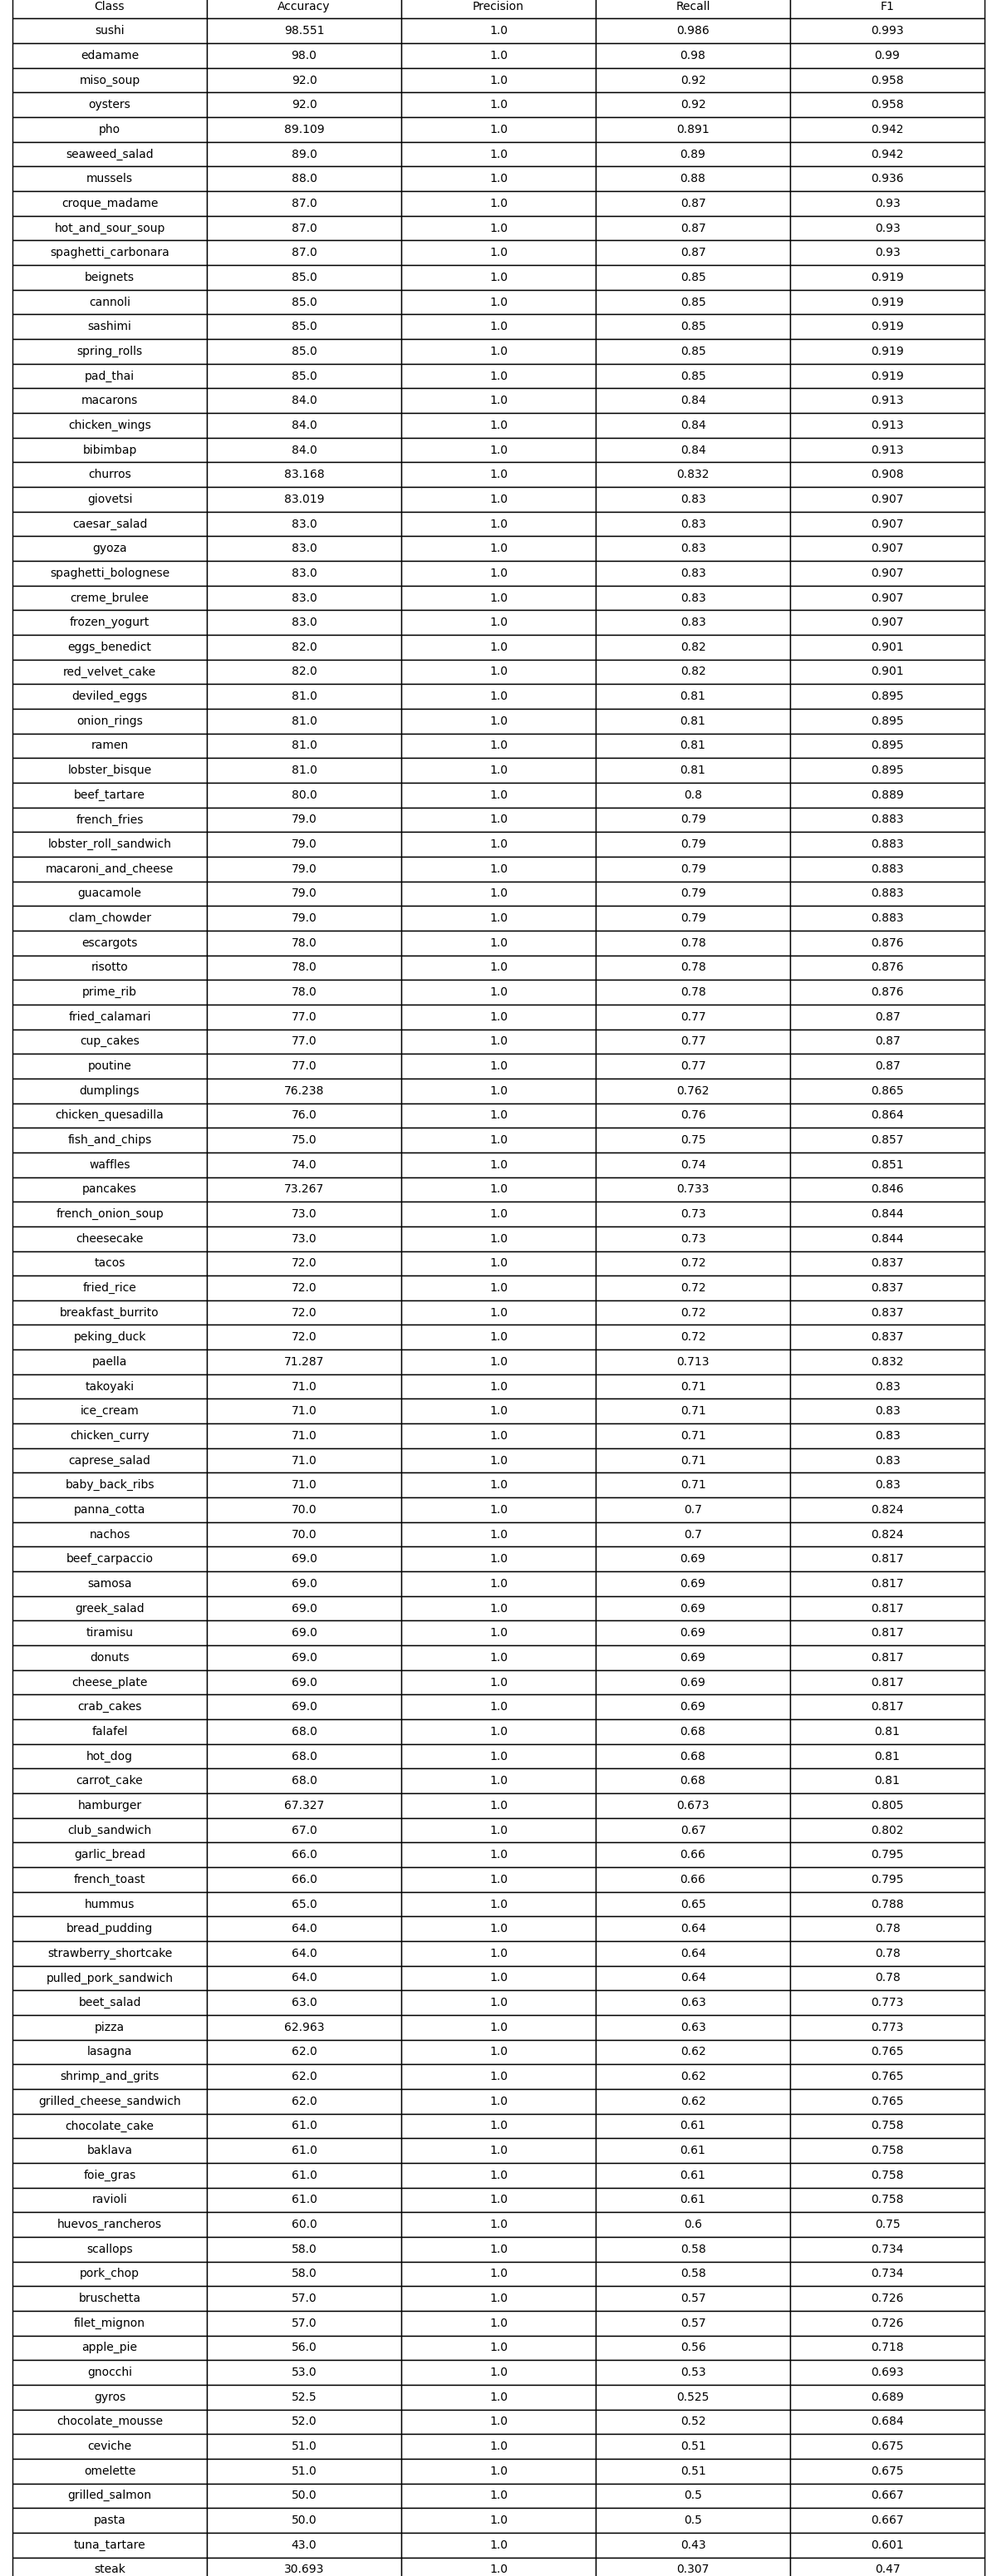
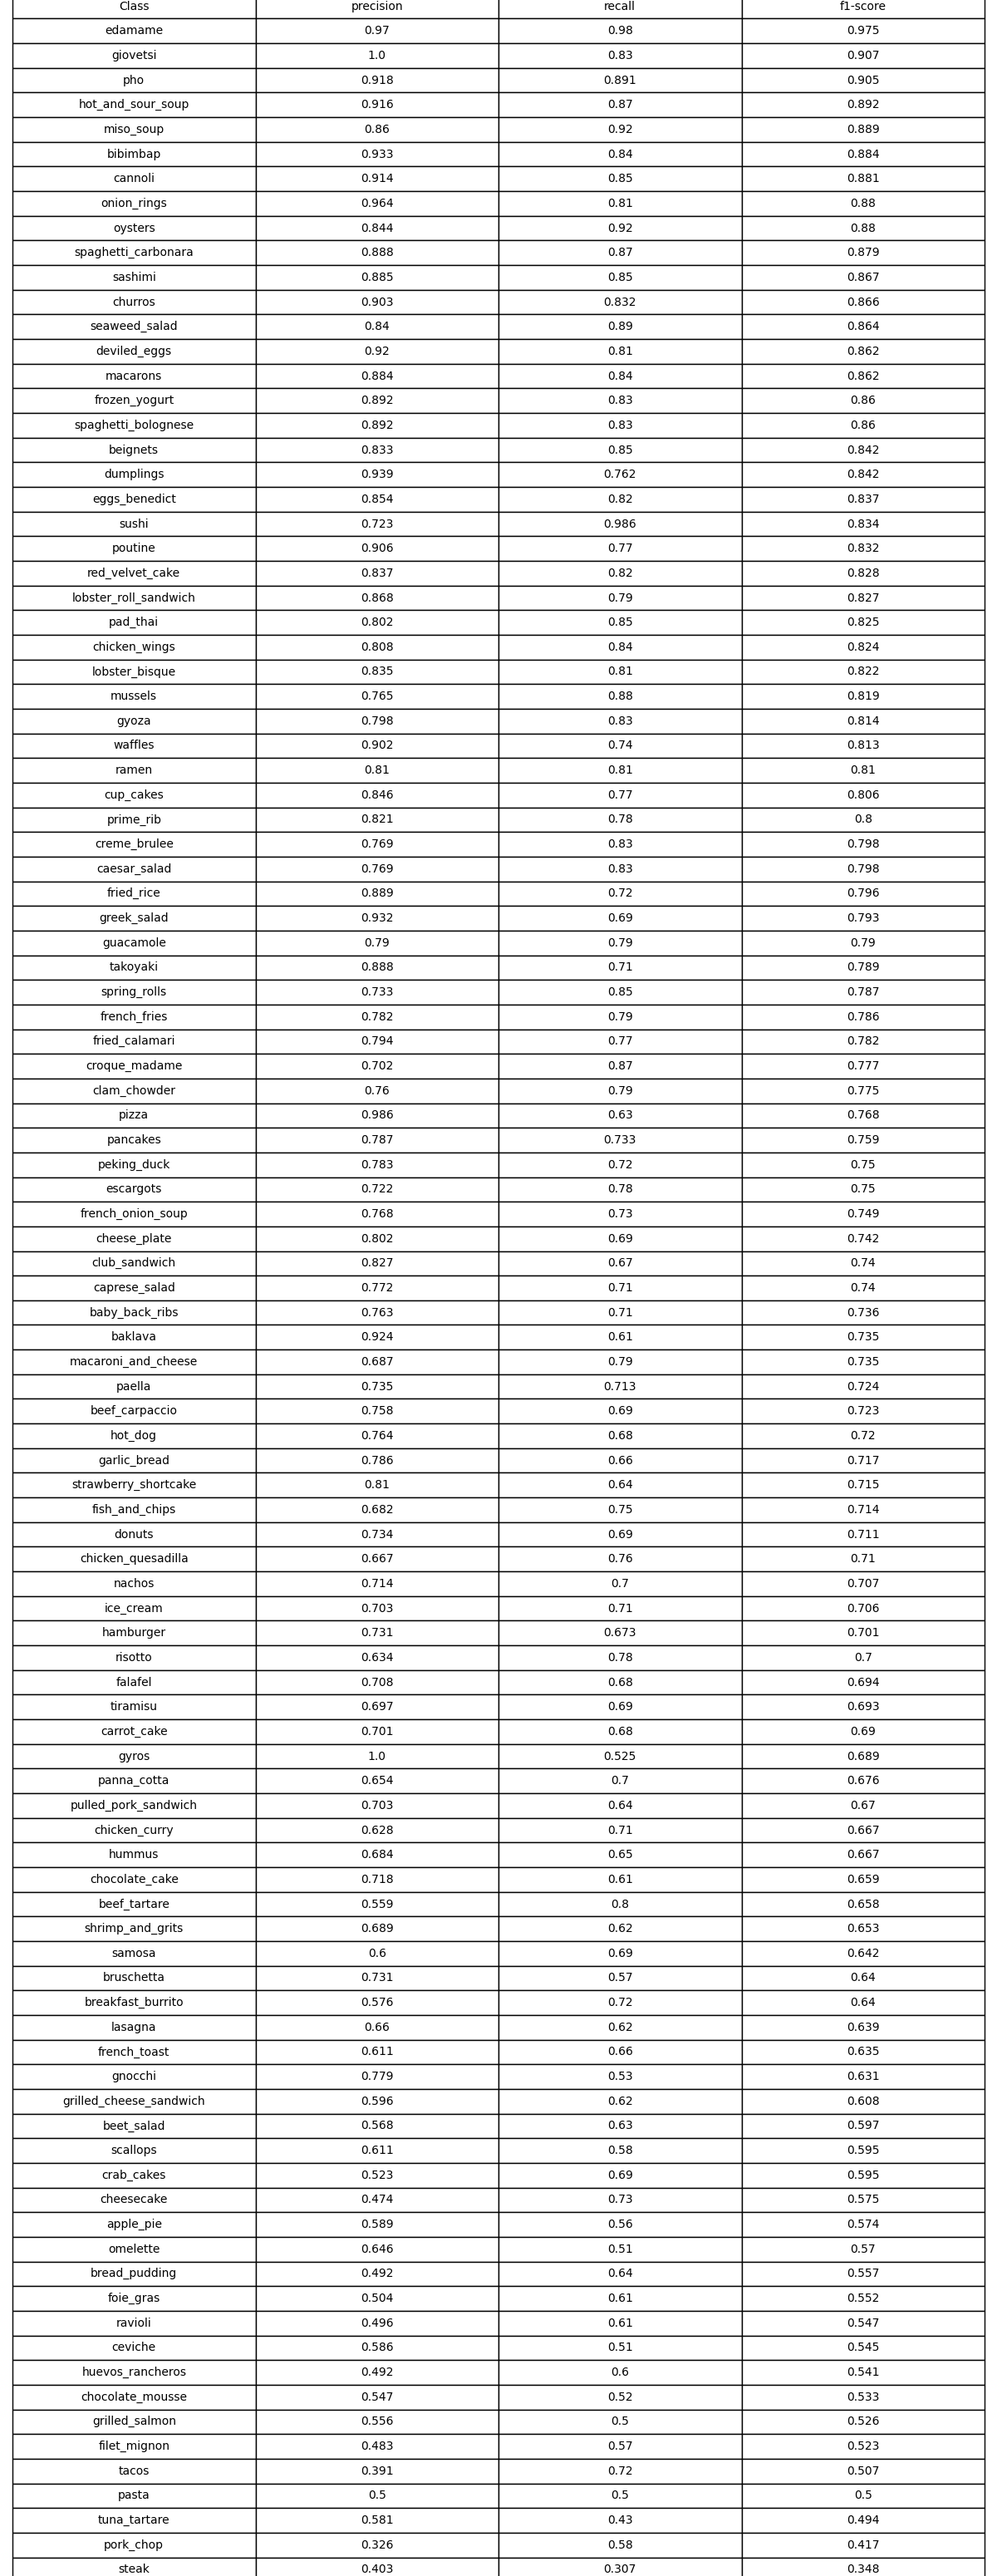
fixed metrics and added augmentations to images in training

diff --git a/src/evaluate.py b/src/evaluate.py
@@ -2,7 +2,7 @@ import argparse
 import torch
 import torch.nn as nn
 import pandas as pd
-from sklearn.metrics import precision_score, recall_score, f1_score, confusion_matrix
+from sklearn.metrics import classification_report, confusion_matrix
 
 from src.data_loaders import get_dataloaders
 from src.models import load_resnet_model
@@ -32,30 +32,19 @@ def evaluate(model, loader, criterion, device, class_names=None, save_csv="metri
     val_loss = running_loss / len(loader)
 
     # Compute metrics per class
-    metrics = {"Class": [], "Accuracy": [], "Precision": [], "Recall": [], "F1": []}
+    report = classification_report(
+        all_labels,
+        all_preds,
+        target_names=class_names,
+        zero_division=0,
+        output_dict=True
+    )
 
-    for i, cls in enumerate(class_names):
-        # Select only samples belonging to this class
-        cls_indices = [j for j, label in enumerate(all_labels) if label == i]
-        if not cls_indices:  # skip if no samples of this class
-            continue
-
-        cls_labels = [all_labels[j] for j in cls_indices]
-        cls_preds  = [all_preds[j] for j in cls_indices]
-
-        acc = sum([p == l for p, l in zip(cls_preds, cls_labels)]) / len(cls_labels) * 100
-        prec = precision_score(cls_labels, cls_preds, labels=[i], average="macro", zero_division=0)
-        rec  = recall_score(cls_labels, cls_preds, labels=[i], average="macro", zero_division=0)
-        f1   = f1_score(cls_labels, cls_preds, labels=[i], average="macro", zero_division=0)
-
-        metrics["Class"].append(cls)
-        metrics["Accuracy"].append(acc)
-        metrics["Precision"].append(prec)
-        metrics["Recall"].append(rec)
-        metrics["F1"].append(f1)
-
-    df_metrics = pd.DataFrame(metrics)
-    df_metrics = df_metrics.sort_values(by="F1", ascending=False).reset_index(drop=True)
+    # Convert to DataFrame
+    df_metrics = pd.DataFrame(report).transpose()
+    df_metrics = df_metrics.iloc[:-3]  # remove 'accuracy', 'macro avg', 'weighted avg'
+    df_metrics = df_metrics.drop(columns=["support"], errors="ignore") # remove 'support'
+    df_metrics = df_metrics.sort_values(by="f1-score", ascending=False).reset_index().rename(columns={"index": "Class"})
 
     # Save CSV
     df_metrics.to_csv(save_csv, index=False)

diff --git a/src/utils/general.py b/src/utils/general.py
@@ -24,7 +24,7 @@ def compute_batch_metrics(model, inputs, labels, criterion, device):
     return loss, top1, top5, preds
 
 def get_transform():
-    transform = transforms.Compose([
+    val_test_transform = transforms.Compose([
         transforms.Resize(256),  # keep aspect ratio
         transforms.CenterCrop(224),  # crop to 224x224
         transforms.ToTensor(),  # convert to tensor [C,H,W] and scale to [0,1]
@@ -33,12 +33,21 @@ def get_transform():
             std=[0.229, 0.224, 0.225]
         )
     ])
-    return transform
+    train_transform = transforms.Compose([
+        transforms.RandomResizedCrop(224),  # random zooms/crops
+        transforms.RandomHorizontalFlip(),  # simulate left/right variations
+        transforms.ColorJitter(0.2, 0.2, 0.2, 0.1),  # brightness/contrast/saturation/hue
+        transforms.RandomRotation(15),  # slight angle changes
+        transforms.ToTensor(),
+        transforms.Normalize(mean=[0.485, 0.456, 0.406],
+                             std=[0.229, 0.224, 0.225])
+    ])
+    return train_transform, val_test_transform
 
 
 def preprocess_image(image_path):
     """Load and preprocess a single image for model prediction."""
-    transform = get_transform()
+    _, transform = get_transform()
     image = Image.open(image_path).convert("RGB")
     return transform(image).unsqueeze(0)  # add batch dimension
 

diff --git a/src/data_loaders/data_loaders.py b/src/data_loaders/data_loaders.py
@@ -5,11 +5,11 @@ from src.utils import get_transform
 
 
 def get_dataloaders(data_dir, batch_size=32, num_workers=4):
-    transform = get_transform()
+    train_t, val_test_t = get_transform()
 
-    train_dataset = datasets.ImageFolder(root=os.path.join(data_dir, "train"), transform=transform)
-    val_dataset = datasets.ImageFolder(root=os.path.join(data_dir, "val"), transform=transform)
-    test_dataset = datasets.ImageFolder(root=os.path.join(data_dir, "test"), transform=transform)
+    train_dataset = datasets.ImageFolder(root=os.path.join(data_dir, "train"), transform=train_t)
+    val_dataset = datasets.ImageFolder(root=os.path.join(data_dir, "val"), transform=val_test_t)
+    test_dataset = datasets.ImageFolder(root=os.path.join(data_dir, "test"), transform=val_test_t)
 
     train_loader = DataLoader(train_dataset, batch_size=batch_size, shuffle=True, num_workers=num_workers)
     val_loader  = DataLoader(val_dataset, batch_size=batch_size, shuffle=False, num_workers=num_workers)

diff --git a/src/train.py b/src/train.py
@@ -84,8 +84,11 @@ def main(args):
     model = load_resnet_model(18, num_classes,checkpoint_path=None, device=device)
 
     criterion = nn.CrossEntropyLoss()
-    optimizer = optim.Adam(model.parameters(), lr=args.lr)
-
+    optimizer = optim.Adam(
+        model.parameters(),
+        lr=args.lr,
+        weight_decay=1e-4
+    )
     best_acc = 0.0
     os.makedirs(config.CHECKPOINT_DIR, exist_ok=True)
 
